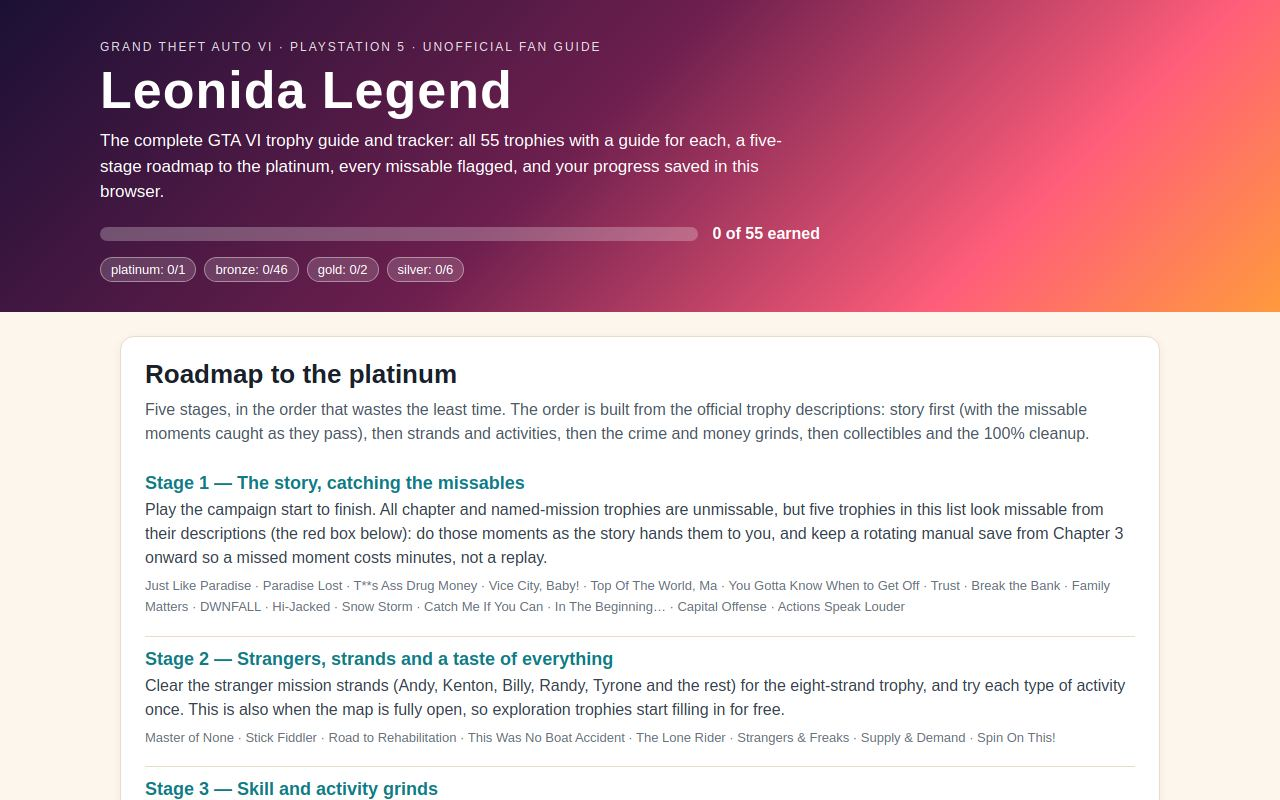
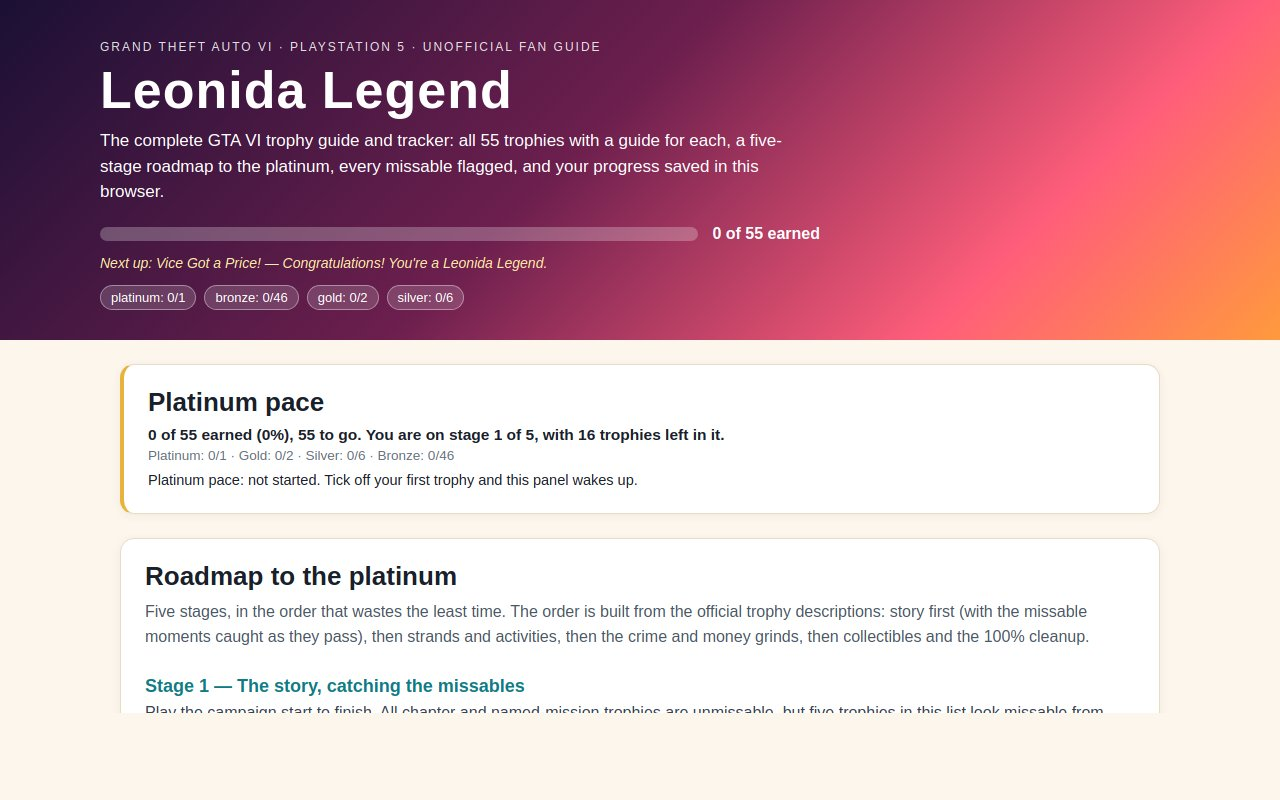
Round 3: Platinum pace panel (extras.js), regenerated screenshots

Changed region(s): [[0.0, 0.3125, 1.0, 0.9375], [0.0938, 0.9688, 0.3438, 1.0]]

diff --git a/app/extras.js b/app/extras.js
@@ -1,0 +1,115 @@
+// Platinum pace panel: a small live summary that sits under the roadmap and
+// answers the one question the checklist itself does not — how fast is this
+// run actually moving, and what is left between here and the platinum?
+//
+// It reads the same localStorage key as the tracker, so every checkbox tick
+// is reflected the next time the panel refreshes. It never writes progress;
+// the tracker stays the single owner of the saved set.
+
+const KEY = 'leonida-legend-progress-v1';
+const GRADES = ['platinum', 'gold', 'silver', 'bronze'];
+const STAGE_COUNT = 5;
+
+const panel = document.getElementById('pace-panel');
+
+function readEarned() {
+  try {
+    const raw = localStorage.getItem(KEY);
+    const ids = raw ? JSON.parse(raw) : [];
+    return new Set(Array.isArray(ids) ? ids : []);
+  } catch {
+    return new Set();
+  }
+}
+
+function tally(trophies, earned) {
+  const perGrade = {};
+  for (const grade of GRADES) perGrade[grade] = { have: 0, total: 0 };
+  const perStage = Array.from({ length: STAGE_COUNT }, () => ({ have: 0, total: 0 }));
+  for (const t of trophies) {
+    const got = earned.has(t.id);
+    if (perGrade[t.grade]) {
+      perGrade[t.grade].total += 1;
+      if (got) perGrade[t.grade].have += 1;
+    }
+    const slot = perStage[t.stage - 1];
+    if (slot) {
+      slot.total += 1;
+      if (got) slot.have += 1;
+    }
+  }
+  return { perGrade, perStage };
+}
+
+function verdict(percent, remaining) {
+  if (remaining === 0) return 'Platinum pace: done. Vice Got a Price! is yours — screenshot it.';
+  if (percent >= 75) return 'Platinum pace: endgame. Only the cleanup stands between you and the platinum.';
+  if (percent >= 50) return 'Platinum pace: strong. Past halfway — keep the grinds ticking over between story beats.';
+  if (percent >= 25) return 'Platinum pace: building. The roadmap order is doing the heavy lifting now.';
+  if (percent > 0) return 'Platinum pace: early days. Story first, missables caught as they pass.';
+  return 'Platinum pace: not started. Tick off your first trophy and this panel wakes up.';
+}
+
+function render(trophies) {
+  if (!panel) return;
+  const earned = readEarned();
+  const { perGrade, perStage } = tally(trophies, earned);
+  const total = trophies.length;
+  const have = trophies.filter((t) => earned.has(t.id)).length;
+  const remaining = total - have;
+  const percent = total ? Math.round((have / total) * 100) : 0;
+
+  const currentStage = perStage.findIndex((s) => s.have < s.total) + 1;
+  const stageLine = remaining === 0
+    ? 'Every roadmap stage is complete.'
+    : `You are on stage ${currentStage} of ${STAGE_COUNT}, with ${perStage[currentStage - 1].total - perStage[currentStage - 1].have} trophies left in it.`;
+
+  const gradeBits = GRADES
+    .filter((g) => perGrade[g].total > 0)
+    .map((g) => `${g}: ${perGrade[g].have}/${perGrade[g].total}`)
+    .join(' · ');
+
+  panel.innerHTML = '';
+
+  const heading = document.createElement('h2');
+  heading.textContent = 'Platinum pace';
+  panel.append(heading);
+
+  const summary = document.createElement('p');
+  summary.className = 'pace-summary';
+  summary.textContent = `${have} of ${total} earned (${percent}%), ${remaining} to go. ${stageLine}`;
+  panel.append(summary);
+
+  const grades = document.createElement('p');
+  grades.className = 'pace-grades';
+  grades.textContent = gradeBits;
+  panel.append(grades);
+
+  const tip = document.createElement('p');
+  tip.className = 'pace-verdict';
+  tip.textContent = verdict(percent, remaining);
+  panel.append(tip);
+}
+
+async function boot() {
+  if (!panel) return;
+  try {
+    const doc = await (await fetch('data/trophies.json')).json();
+    const trophies = doc.trophies;
+    render(trophies);
+    // The tracker saves in this same tab, so no storage event fires here;
+    // poll the raw saved value cheaply and repaint only when it changes.
+    let lastRaw = localStorage.getItem(KEY);
+    setInterval(() => {
+      const raw = localStorage.getItem(KEY);
+      if (raw !== lastRaw) {
+        lastRaw = raw;
+        render(trophies);
+      }
+    }, 1500);
+  } catch {
+    panel.hidden = true;
+  }
+}
+
+boot();

diff --git a/app/style.css b/app/style.css
@@ -80,3 +80,8 @@ button:hover, .import-btn:hover { filter: brightness(1.1); }
 .hidden-note { color: var(--danger); font-weight: 600; font-size: 14px; margin: 0; }
 .empty { color: #68727e; font-size: 15px; padding: 12px 0; }
 footer { color: #68727e; font-size: 13px; line-height: 1.55; padding: 0 4px; }
+.pace-panel { border-left: 4px solid var(--accent, #e8b33c); }
+.pace-panel h2 { margin-top: 0; }
+.pace-summary { font-size: 15.5px; font-weight: 600; margin: 4px 0; }
+.pace-grades { color: #68727e; font-size: 13.5px; margin: 2px 0; text-transform: capitalize; }
+.pace-verdict { margin: 6px 0 0; line-height: 1.55; font-size: 14.5px; }

diff --git a/app/index.html b/app/index.html
@@ -23,6 +23,7 @@
 </header>
 
 <main>
+  <section class="panel pace-panel" id="pace-panel"></section>
   <section class="panel" id="roadmap">
     <h2>Roadmap to the platinum</h2>
     <p class="panel-note">Five stages, in the order that wastes the least time. The order is built from the official trophy descriptions: story first (with the missable moments caught as they pass), then strands and activities, then the crime and money grinds, then collectibles and the 100% cleanup.</p>
@@ -76,5 +77,6 @@
   </footer>
 </main>
 <script type="module" src="app.js"></script>
+<script type="module" src="extras.js"></script>
 </body>
 </html>
